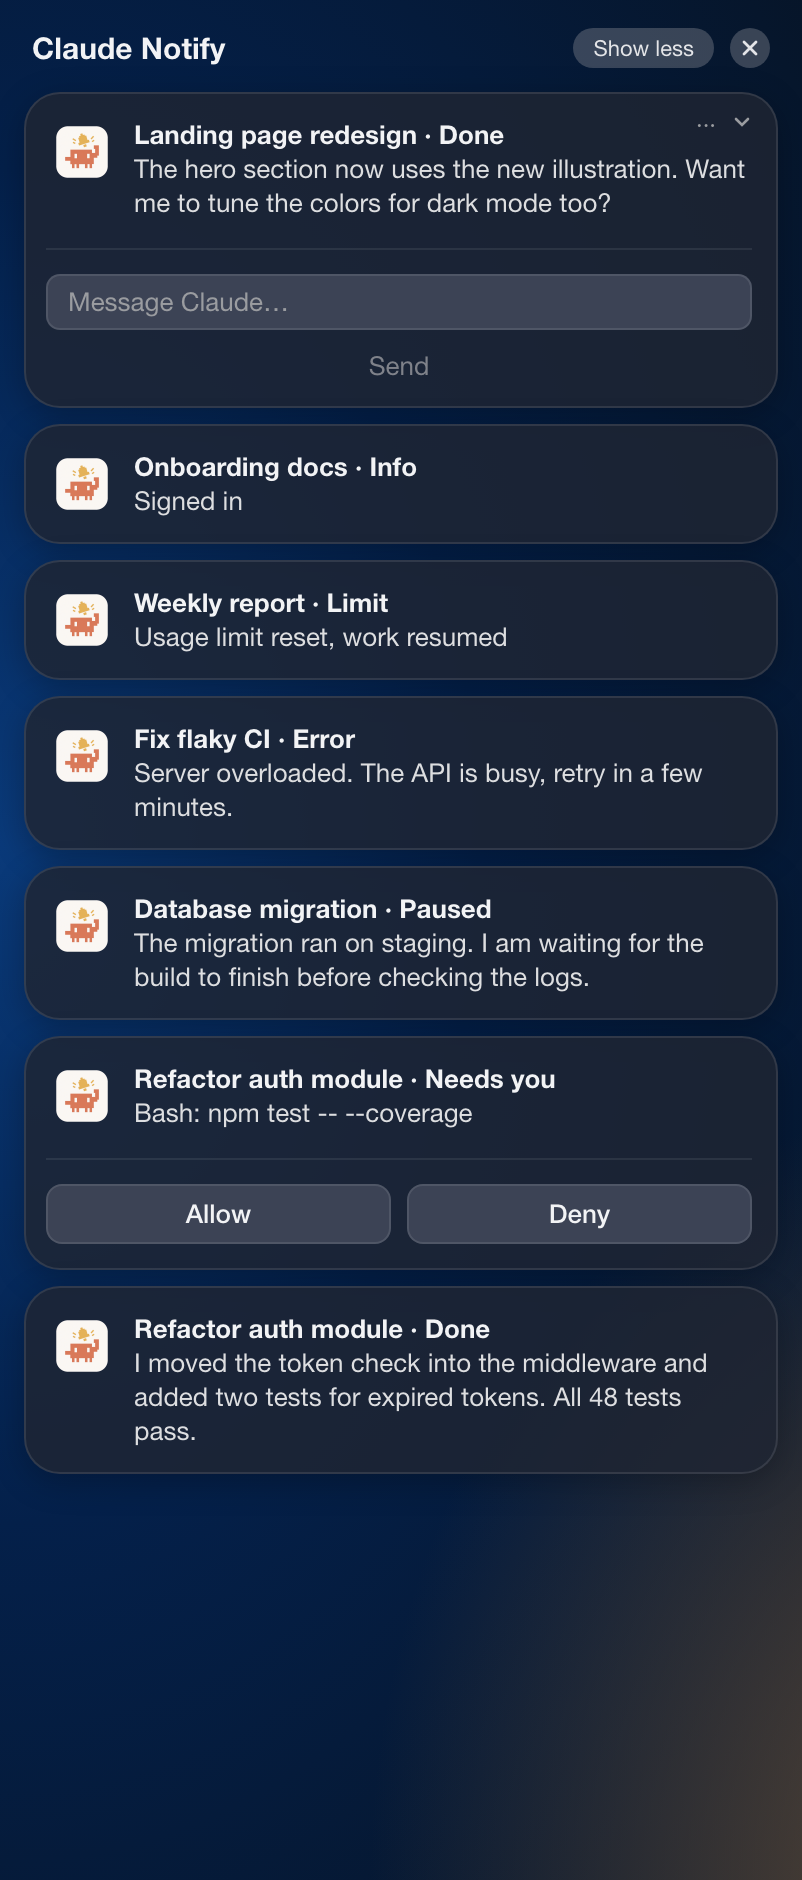
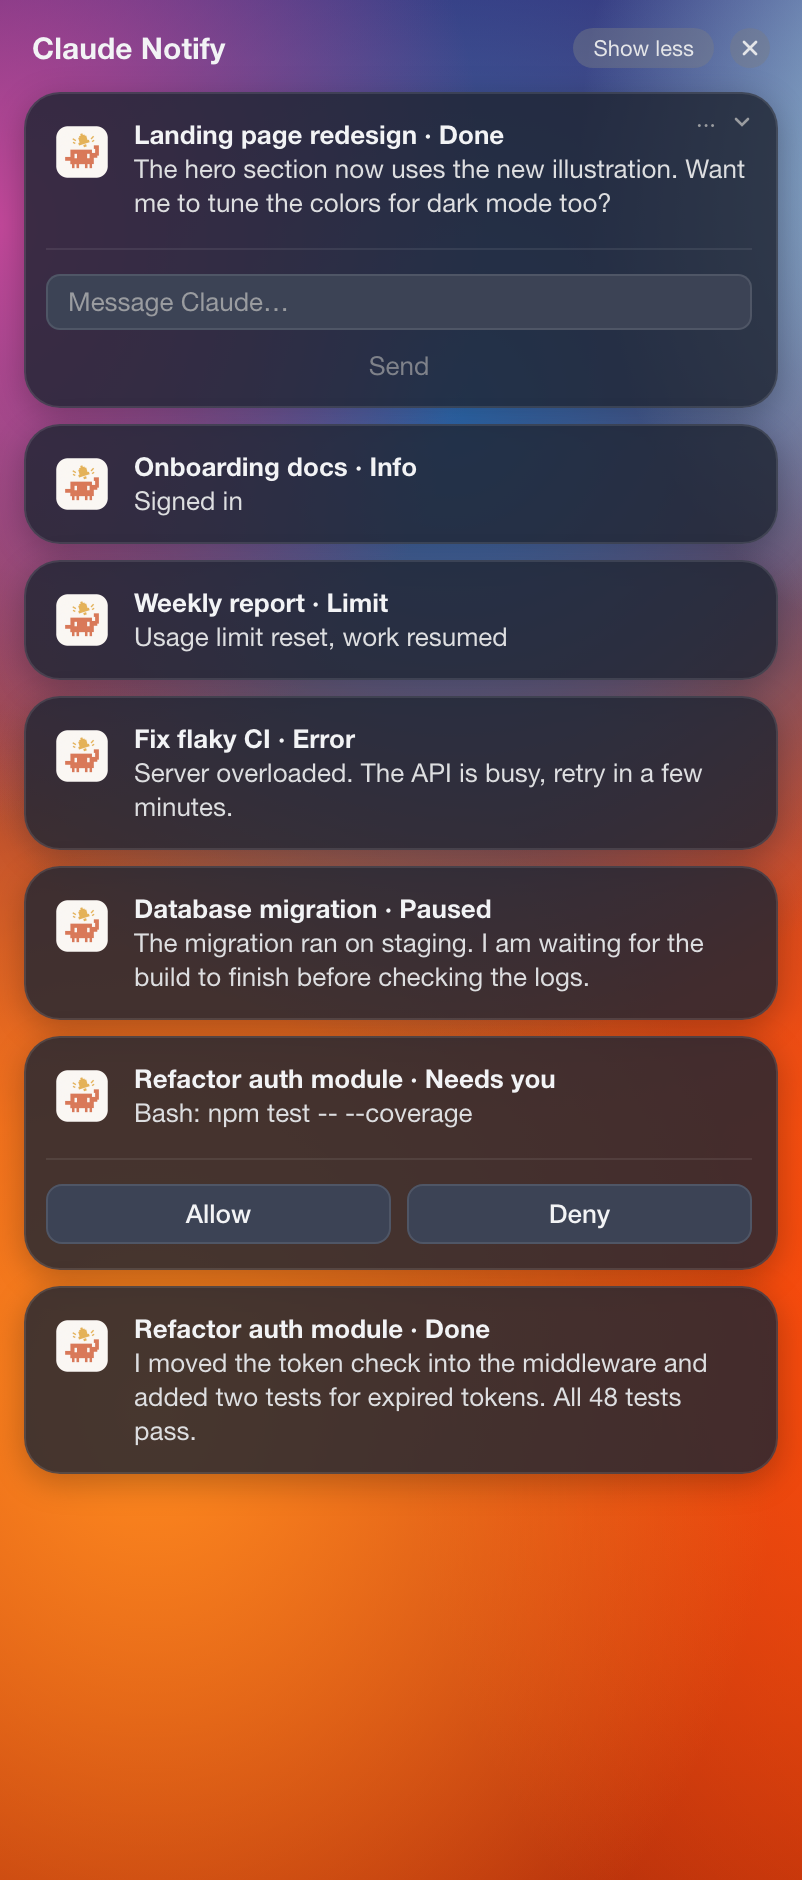
Give the macOS mockup a brighter wallpaper

diff --git a/assets/demo/macos.html b/assets/demo/macos.html
@@ -17,8 +17,12 @@
   body {
     width: 401px; min-height: 100vh;
     background:
-      radial-gradient(90% 60% at 100% 100%, #5b4a3b 0%, rgba(91, 74, 59, 0) 70%),
-      radial-gradient(120% 90% at 0% 45%, #0a3a7a 0%, #04204a 40%, #07111d 100%);
+      radial-gradient(60% 40% at 100% 8%, #a8e4f5 0%, rgba(168, 228, 245, 0) 70%),
+      radial-gradient(70% 45% at 0% 12%, #c2489a 0%, rgba(194, 72, 154, 0) 70%),
+      radial-gradient(80% 45% at 45% 22%, #2f6fb8 0%, rgba(47, 111, 184, 0) 75%),
+      radial-gradient(90% 55% at 15% 75%, #ff8a1f 0%, rgba(255, 138, 31, 0) 70%),
+      radial-gradient(80% 60% at 95% 70%, #ff4a0a 0%, rgba(255, 74, 10, 0) 70%),
+      linear-gradient(180deg, #3b2a6e 0%, #e2541a 60%, #b8320c 100%);
     font-family: -apple-system, "SF Pro Text", "Helvetica Neue", sans-serif;
     -webkit-font-smoothing: antialiased;
   }
